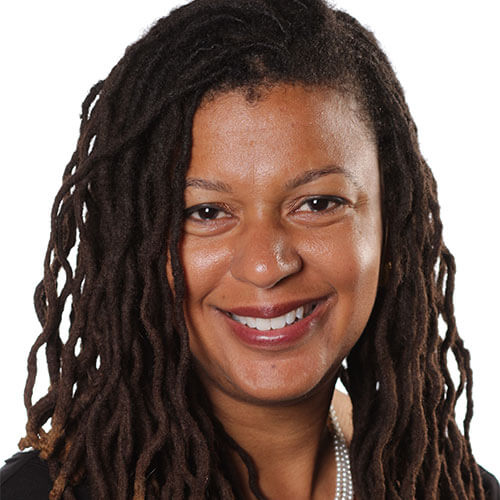
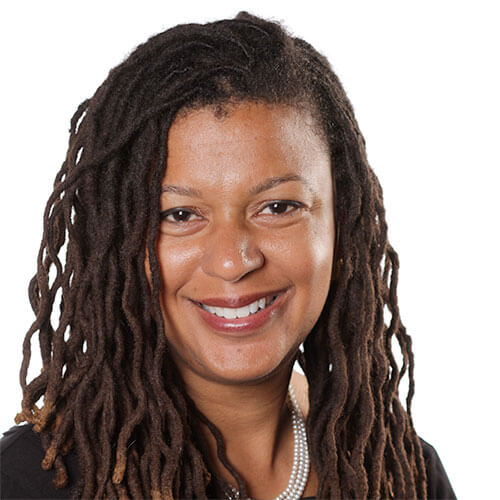
Leadership, update Leslie Gray’s bio and headshot [fix #9332]

diff --git a/bedrock/mozorg/templates/mozorg/about/leadership.html b/bedrock/mozorg/templates/mozorg/about/leadership.html
@@ -219,13 +219,13 @@
         <div class="person-bio">
           <p>
           {% trans %}
-            Leslie is Chief of Staff to the CEO of Mozilla Corporation. She is responsible for managing the business operations for the Office of the CEO and supporting strategic projects on behalf of the Office of the CEO. Prior to joining Mozilla, Leslie spent nine years at Microsoft in various roles from Director of Infrastructure and Database Management, Xbox division, to Chief of Staff for the Skype and Yammer organizations.
+            Leslie is Chief of Staff to the CEO of Mozilla Corporation. She is responsible for managing business operations for the Office of the CEO and supporting strategic projects on behalf of the Office of the CEO. Prior to joining Mozilla, Leslie spent nine years at Microsoft in various roles from Director of Infrastructure and Database Management, Xbox division, to Chief of Staff for the Skype and Yammer organizations.
           {% endtrans %}
           </p>
 
           <p>
           {% trans %}
-            Leslie began her career in marketing technology with Accenture, helping companies leverage customer behavior to better align product fit to consumer behavior. As a recovering technologist, Leslie now spends her time helping leaders and organizations drive improved business outcomes including revenue, usage, retention, employee engagement, and diversity.
+            Leslie began her career in marketing technology with Accenture, helping companies to better align product fit to consumer behavior. As a recovering technologist, Leslie now spends her time helping leaders and organizations drive improved business outcomes including revenue, usage, retention, employee engagement, and diversity.
           {% endtrans %}
           </p>
 
@@ -237,7 +237,7 @@
 
           <p>
           {% trans %}
-            Leslie earned a Bachelor of Arts in Economics from Northwestern University and a Master of Business Administration from University of Southern California. She is an avid pickleball player and lives with her two furry family members in California’s Silicon Valley.
+            Leslie earned a Bachelor of Arts in Economics from Northwestern University and a Master of Business Administration from University of Southern California.
           {% endtrans %}
           </p>
         </div>
